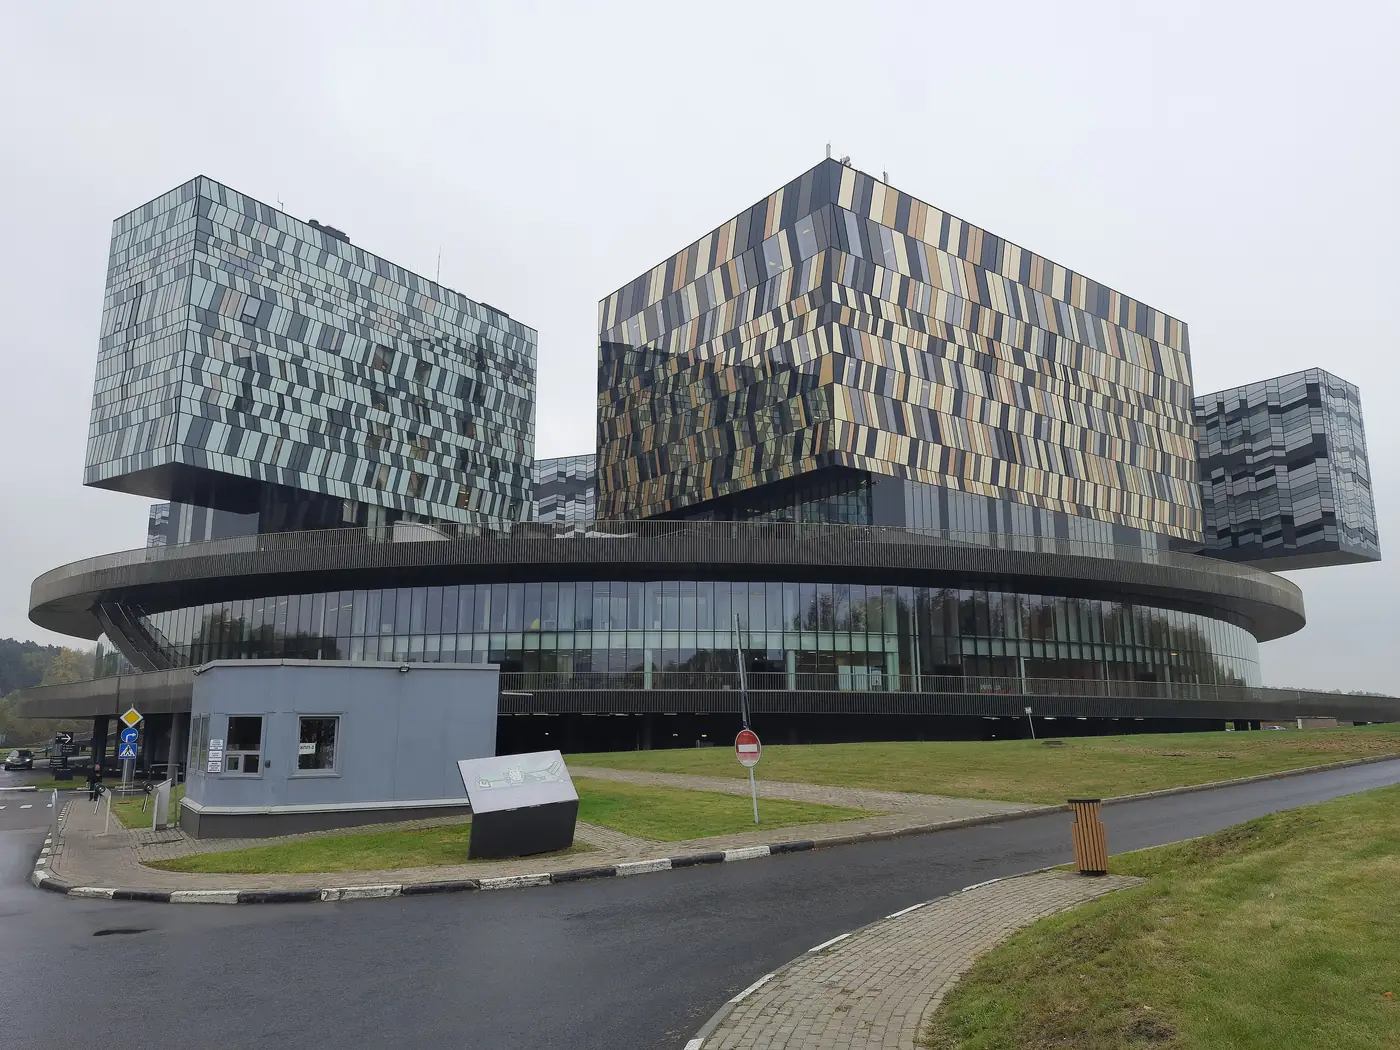
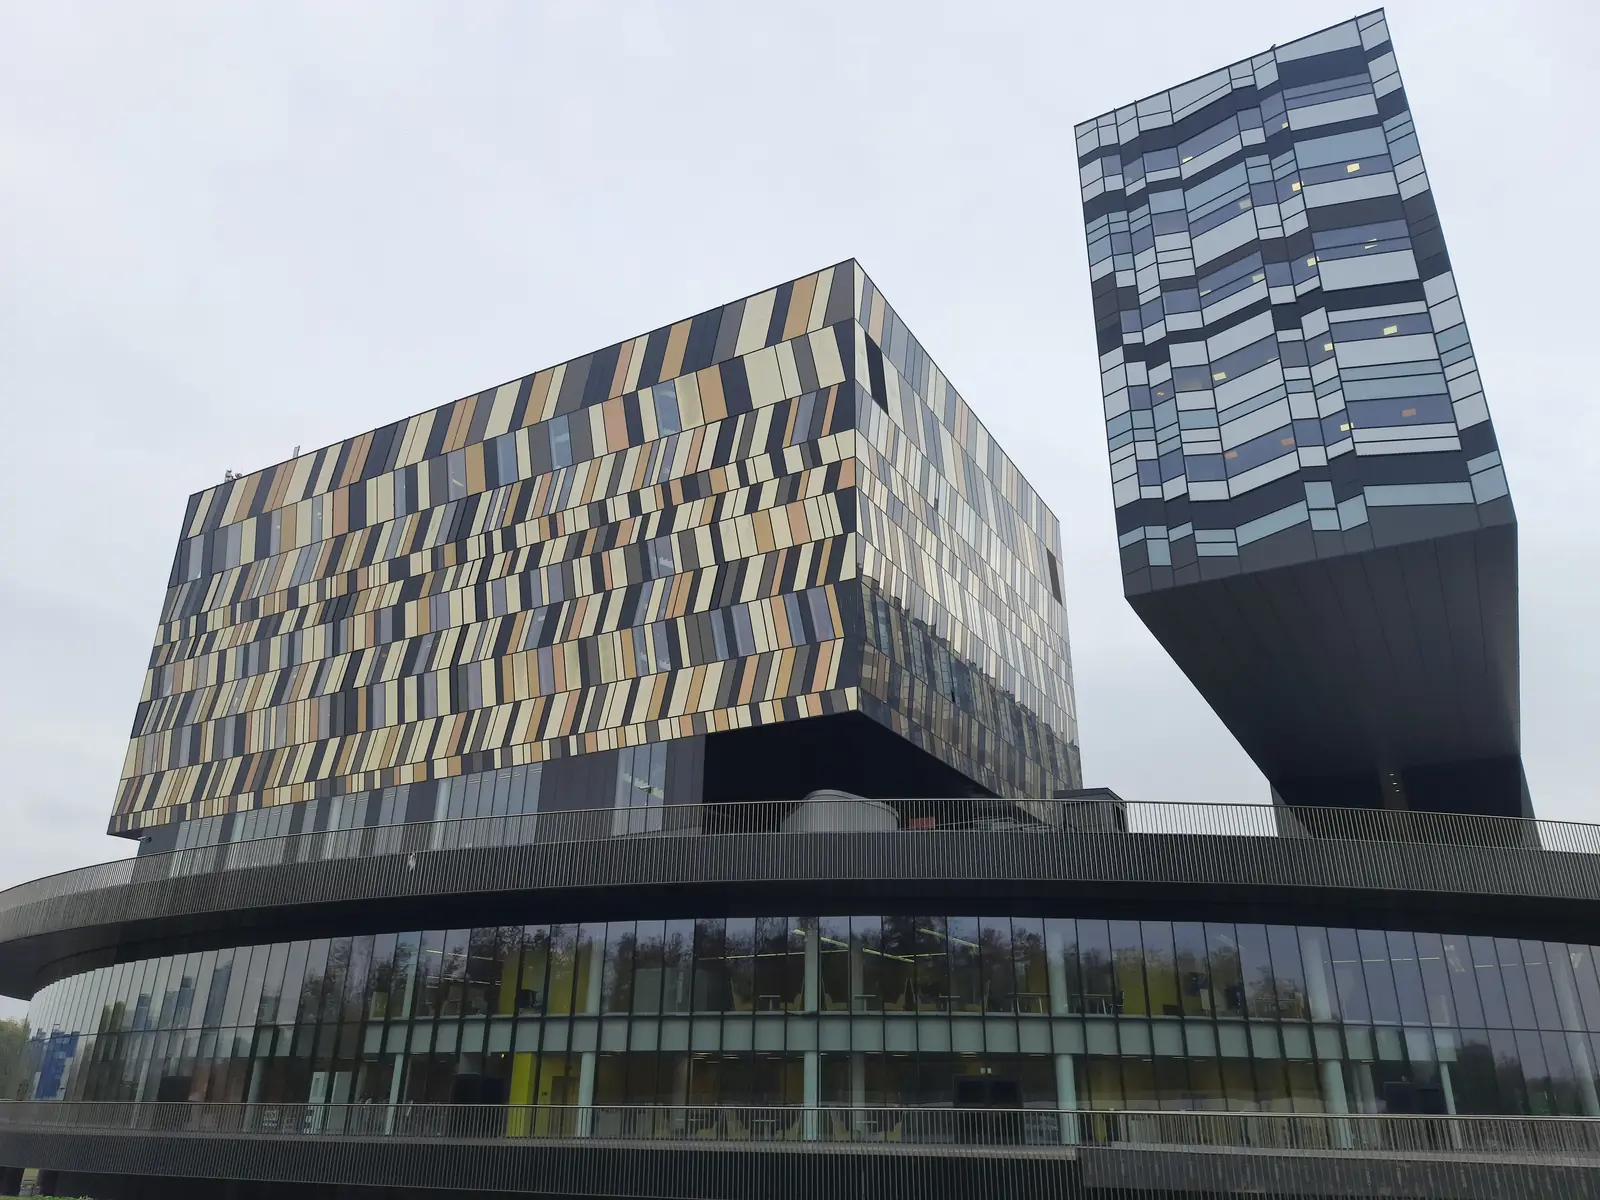
Use the selected Petersburg, Sber, SKOLKOVO, club, and plate photos.
Yandex stays the same Commons file, re-exported. The creative-studio frame stays until there is permission to use Smeshariki art.

diff --git a/js/main.js b/js/main.js
@@ -24,20 +24,21 @@ const MEDIA = {
   hermitage: { src: "images/hermitage-neva-winter.webp", w: 1400, h: 1050 },
   peterhof: { src: "images/peterhof-winter.webp", w: 1400, h: 1106 },
   palace: { src: "images/winter-palace-night.webp", w: 1400, h: 933 },
-  yandex: { src: "images/yandex-hq.webp", w: 1400, h: 1050 },
+  petersburg: { src: "images/petersburg-winter-bridge.webp", w: 1600, h: 1200 },
+  yandex: { src: "images/yandex-hq.webp", w: 1600, h: 1200 },
   rover: { src: "images/yandex-rover.webp", w: 1400, h: 1050 },
-  sber: { src: "images/sber-hq.webp", w: 1400, h: 933 },
-  skolkovo: { src: "images/skolkovo-disk.webp", w: 1400, h: 1050 },
+  sber: { src: "images/sber-hq.webp", w: 1600, h: 1200 },
+  skolkovo: { src: "images/skolkovo-disk.webp", w: 1600, h: 1200 },
   lenin: { src: "images/icebreaker-lenin.webp", w: 1400, h: 933 },
   uni: { src: "images/sea-urchin.webp", w: 1400, h: 1050 },
   crab: { src: "images/king-crab.webp", w: 1400, h: 1050 },
   scallop: { src: "images/scallop-plate.webp", w: 1400, h: 1543 },
   boat: { src: "images/arctic-boat.webp", w: 1400, h: 1049 },
   diver: { src: "images/placeholder-arctic-diver.svg", w: 900, h: 1200 },
-  club: { src: "images/placeholder-moscow-club.svg", w: 900, h: 1200 },
+  club: { src: "images/moscow-club.webp", w: 1600, h: 1069 },
   creative: { src: "images/placeholder-creative-studio.svg", w: 900, h: 1200 },
   dining: { src: "images/placeholder-restaurant.svg", w: 900, h: 1200 },
-  plate: { src: "images/placeholder-russian-plate.svg", w: 900, h: 1200 },
+  plate: { src: "images/russian-plate.webp", w: 1600, h: 1059 },
 };
 
 const DAY_FRAME = {

diff --git a/CREDITS.md b/CREDITS.md
@@ -1,6 +1,6 @@
 # Photo credits
 
-Photographs are real pictures from Wikimedia Commons. They were resized and converted to WebP for the site. The share image `images/og.jpg` is a 1200×630 crop of the hero. Licenses below still apply to those derivatives.
+Photographs are real pictures from Wikimedia Commons and Unsplash. They were resized and converted to WebP for the site. The share image `images/og.jpg` is a 1200×630 crop of the hero. Licenses below still apply to those derivatives.
 
 Replace a photo by putting a new file in `images/` and pointing the matching id in `js/main.js` (`MEDIA`) at it. Keep this list updated.
 
@@ -13,17 +13,20 @@ Replace a photo by putting a new file in `images/` and pointing the matching id 
 | `images/teriberka-coast.webp` | Teriberka coast, Kola Peninsula | Ninara | [CC BY 2.0](https://creativecommons.org/licenses/by/2.0) | [File page](https://commons.wikimedia.org/wiki/File:Teriberka,_Kola_Peninsula,_Russia_(21697856432).jpg) |
 | `images/teriberka-aurora.webp` | Northern lights over the old weather station, Teriberka | Ted.ns | [CC BY 4.0](https://creativecommons.org/licenses/by/4.0) | [File page](https://commons.wikimedia.org/wiki/File:%D0%9F%D0%BE%D0%BB%D1%8F%D1%80%D0%BD%D0%BE%D0%B5_%D1%81%D0%B8%D1%8F%D0%BD%D0%B8%D0%B5_%D0%BD%D0%B0%D0%B4_%D0%B7%D0%B0%D0%B1%D1%80%D0%BE%D1%88%D0%B5%D0%BD%D0%BD%D1%8B%D0%BC_%D0%B7%D0%B4%D0%B0%D0%BD%D0%B8%D0%B5%D0%BC_%D0%BC%D0%B5%D1%82%D0%B5%D0%BE%D1%81%D1%82%D0%B0%D0%BD%D1%86%D0%B8%D0%B5%D0%B9.jpg) |
 | `images/hermitage-neva-winter.webp` | Winter Palace / Hermitage and the frozen Neva | Eugene Slobodin | [CC BY-SA 4.0](https://creativecommons.org/licenses/by-sa/4.0) | [File page](https://commons.wikimedia.org/wiki/File:Hermitage_und_Frozen_River_Neva.JPG) |
+| `images/petersburg-winter-bridge.webp` | Bridge over a frozen river, winter St. Petersburg. Friday card and the gallery | Evgenii Zolotarev | [Unsplash License](https://unsplash.com/license) | [Photo](https://unsplash.com/photos/a-bridge-over-a-frozen-river-with-a-building-in-the-background-yESKxiijQ3w) |
 | `images/peterhof-winter.webp` | Grand Palace at Peterhof, winter evening | Professor Caretaker | [CC BY-SA 4.0](https://creativecommons.org/licenses/by-sa/4.0) | [File page](https://commons.wikimedia.org/wiki/File:The_Grand_Palace_in_Peterhof,_the_Church_in_a_winter_evening.JPG) |
 | `images/winter-palace-night.webp` | Winter Palace and Palace Square at night | Vyacheslav Argenberg | [CC BY 4.0](https://creativecommons.org/licenses/by/4.0) | [File page](https://commons.wikimedia.org/wiki/File:The_Winter_Palace_and_Palace_Square_at_night,_Saint_Petersburg,_Russia.jpg) |
-| `images/yandex-hq.webp` | Yandex main office, Moscow | WikiFido | [CC BY-SA 4.0](https://creativecommons.org/licenses/by-sa/4.0) | [File page](https://commons.wikimedia.org/wiki/File:Yandex_main_office.jpg) |
+| `images/yandex-hq.webp` | Yandex main office with the logo, Moscow. Same Commons file, re-exported | WikiFido | [CC BY-SA 4.0](https://creativecommons.org/licenses/by-sa/4.0) | [File page](https://commons.wikimedia.org/wiki/File:Yandex_main_office.jpg) |
 | `images/yandex-rover.webp` | Yandex delivery robots, Zubovskaya Square, Moscow, October 2024 | Retired electrician | [CC0](https://creativecommons.org/publicdomain/zero/1.0/) | [File page](https://commons.wikimedia.org/wiki/File:Moscow,_Zubovskaya_Square,_Yandex_delivery_bots_October_2024_04.jpg) |
-| `images/sber-hq.webp` | Sber building, Gagarin Square, Moscow | Retired electrician | [CC0](https://creativecommons.org/publicdomain/zero/1.0/) | [File page](https://commons.wikimedia.org/wiki/File:Moscow,_Gagarina_Square,_Sberbank_building_June_2025_04.jpg) |
-| `images/skolkovo-disk.webp` | SKOLKOVO campus, the disk building | MBH | [CC BY-SA 4.0](https://creativecommons.org/licenses/by-sa/4.0) | [File page](https://commons.wikimedia.org/wiki/File:Skolkovo_business_school_01.jpg) |
+| `images/sber-hq.webp` | Sber headquarters with the logo, Moscow | MBH | [CC BY 4.0](https://creativecommons.org/licenses/by/4.0) | [File page](https://commons.wikimedia.org/wiki/File:Sberbank_headquarters_03.jpg) |
+| `images/skolkovo-disk.webp` | SKOLKOVO disk building with the sign | MBH | [CC BY-SA 4.0](https://creativecommons.org/licenses/by-sa/4.0) | [File page](https://commons.wikimedia.org/wiki/File:Skolkovo_business_school_51.jpg) |
 | `images/icebreaker-lenin.webp` | Nuclear icebreaker Lenin, Murmansk | Godot13 | [CC BY-SA 4.0](https://creativecommons.org/licenses/by-sa/4.0) | [File page](https://commons.wikimedia.org/wiki/File:RUS-2016-Murmansk-Icebreaker_Lenin_01.jpg) |
 | `images/king-crab.webp` | Opened king crab leg, served in Kirkenes, Norway — not on the Teriberka boat | JIP | [CC BY-SA 4.0](https://creativecommons.org/licenses/by-sa/4.0) | [File page](https://commons.wikimedia.org/wiki/File:King_crab_leg.jpg) |
 | `images/sea-urchin.webp` | Sea urchin (uni), photographed at Other Mama in Las Vegas — not on the Teriberka boat | T.Tseng | [CC BY 2.0](https://creativecommons.org/licenses/by/2.0) | [File page](https://commons.wikimedia.org/wiki/File:Uni,_oyster,_ikura_01.jpg) |
 | `images/scallop-plate.webp` | Seared scallops, Cromer, England — not on the Teriberka boat. The photographer asked to be emailed (Kolforn@gmail.com) when the picture is used outside Wikimedia. | Kolforn | [CC BY-SA 4.0](https://creativecommons.org/licenses/by-sa/4.0) | [File page](https://commons.wikimedia.org/wiki/File:-2014-06-12_Red_mullet_with_Pan_Seared_Scallop%E2%80%99s_and_Bacon,_Cromer.JPG) |
 | `images/arctic-boat.webp` | A boat on the Arctic sea, August 2006 — not a winter boat at Teriberka | Ville Miettinen | [CC BY 2.0](https://creativecommons.org/licenses/by/2.0) | [File page](https://commons.wikimedia.org/wiki/File:Boat_on_the_Arctic_Sea_-_August_2006.jpg) |
+| `images/moscow-club.webp` | Nightclub with a DJ and a crowd. Used for the Moscow night / farewell party. Not a named Moscow venue | Joes Valentine | [Unsplash License](https://unsplash.com/license) | [Photo](https://unsplash.com/photos/a-dj-pumps-up-the-crowd-at-a-nightclub-IRIIr3zVy2k) |
+| `images/russian-plate.webp` | Close-up of a plated dish. Stand-in for the plate slot until a Russian course from the trip is available | Edgar Cavazos | [Unsplash License](https://unsplash.com/license) | [Photo](https://unsplash.com/photos/a-close-up-of-a-plate-of-food-on-a-table-3-iRH6cJLyw) |
 | `images/og.jpg` | Share image, cropped from the Red Square hero | Vyacheslav Argenberg | [CC BY 4.0](https://creativecommons.org/licenses/by/4.0) | Same source as the hero |
 
 Swap the seafood and boat pictures for your own Teriberka frames when you have them: urchins and scallops just opened on the boat, and the boat itself in winter.
@@ -35,7 +38,5 @@ These are drawn frames, not photographs. Each SVG file has a comment describing 
 | File | Put this photo here |
 | --- | --- |
 | `images/placeholder-arctic-diver.svg` | A diver in the Barents Sea beside a small boat, with sea urchins or scallops just brought up. Your own photo. Not an AI image of the place. |
-| `images/placeholder-moscow-club.svg` | A stylish Moscow club interior with lights, ideally the farewell venue. Only a photo you have rights to use. |
-| `images/placeholder-creative-studio.svg` | Smeshariki and/or «13 карт» (13 Cards). Official art is not freely licensed. Use a photo from the visit, or artwork you have permission to publish. |
+| `images/placeholder-creative-studio.svg` | Smeshariki and/or «13 карт» (13 Cards). Official art from ГК «Рики» is not cleared for this site. Use a photo from the visit, or artwork you have permission to publish. |
 | `images/placeholder-restaurant.svg` | A Moscow or St. Petersburg restaurant interior, warmly lit. A photo of the welcome dinner or the farewell brunch is the right one. |
-| `images/placeholder-russian-plate.svg` | Plated modern Russian cuisine from a restaurant on this trip. |
